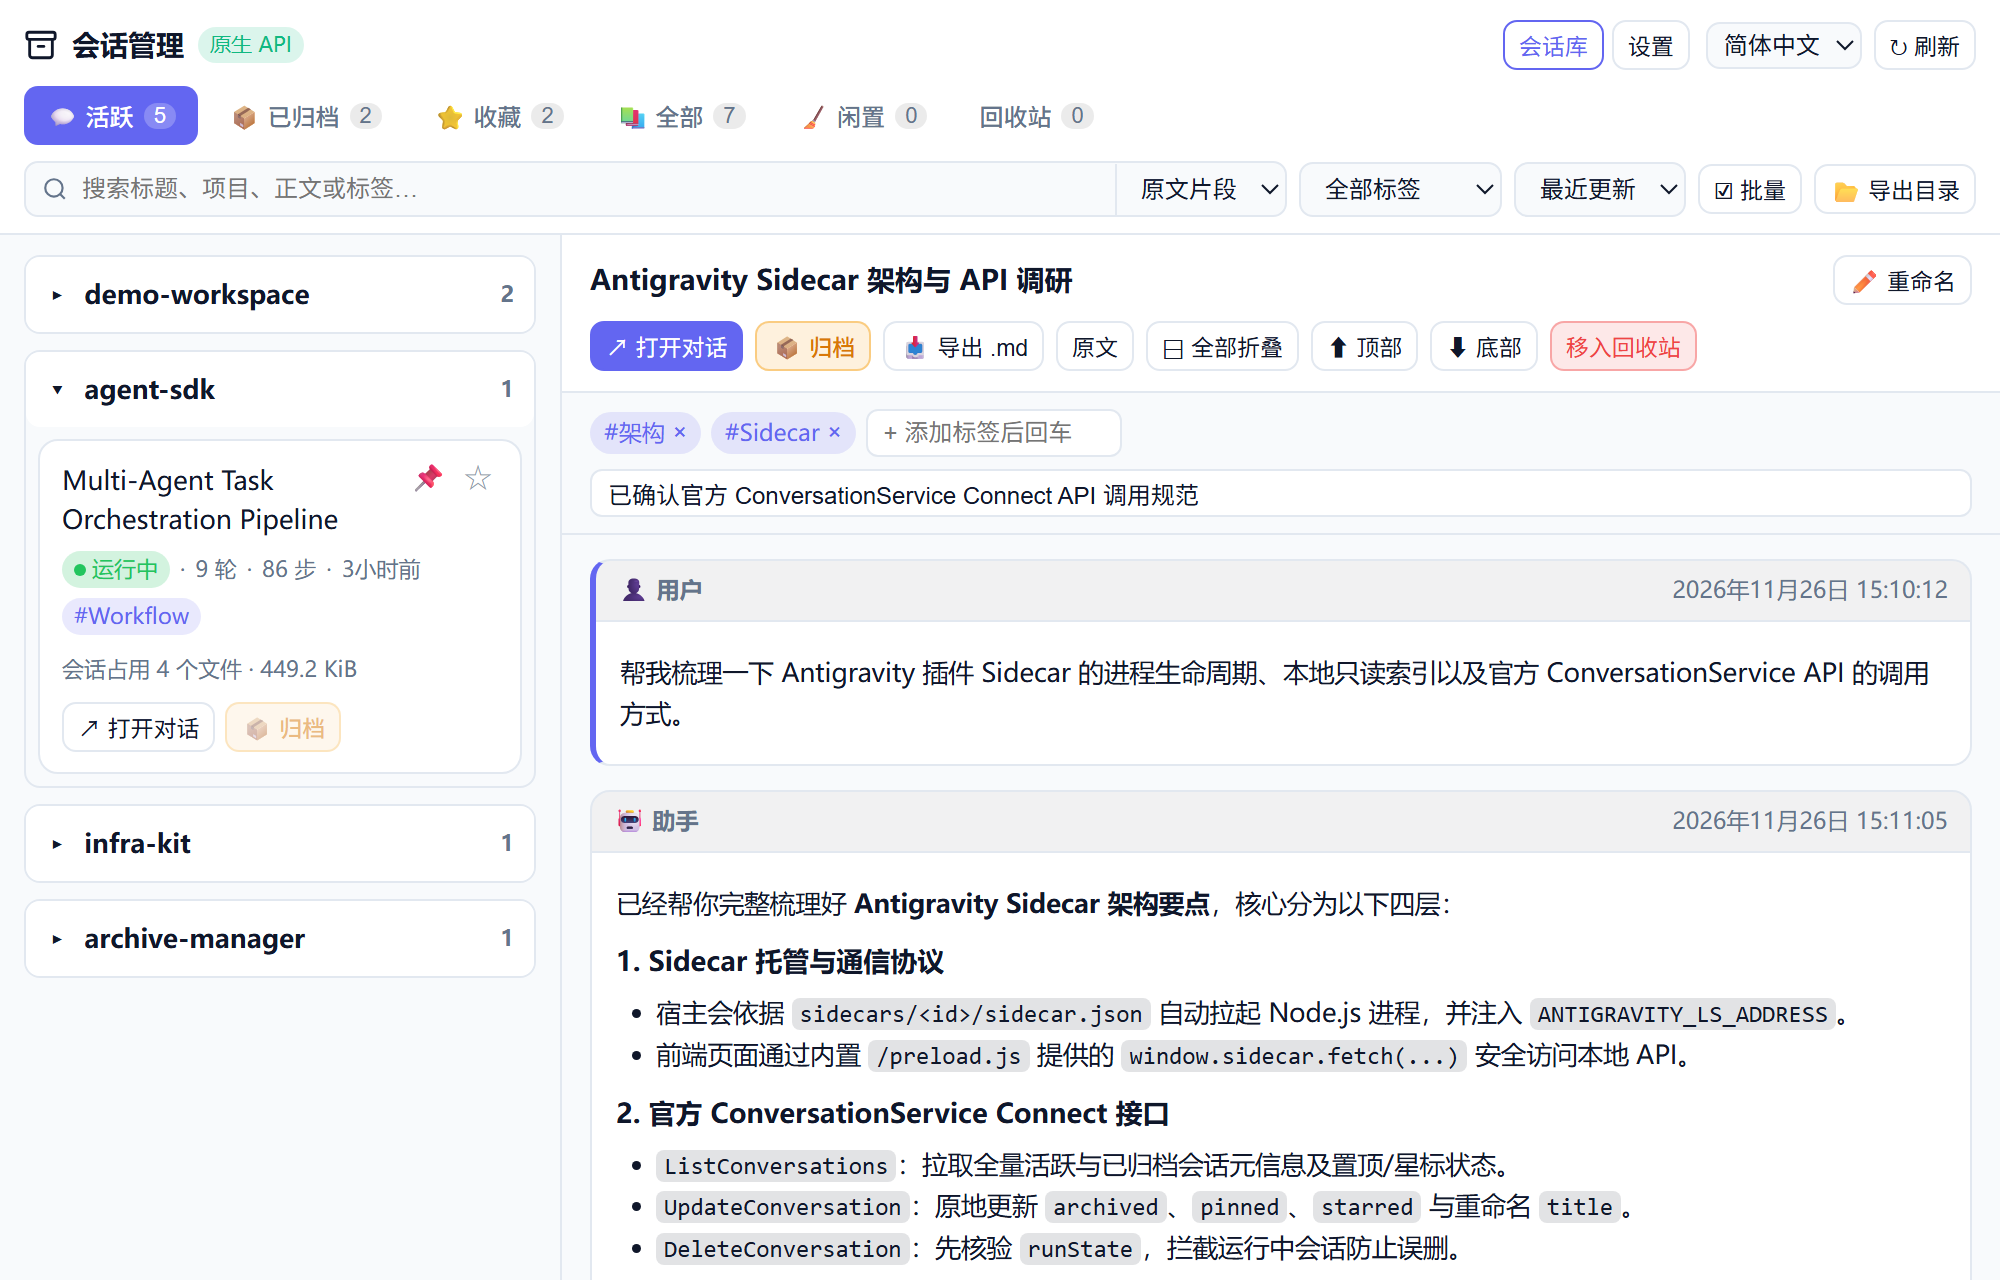
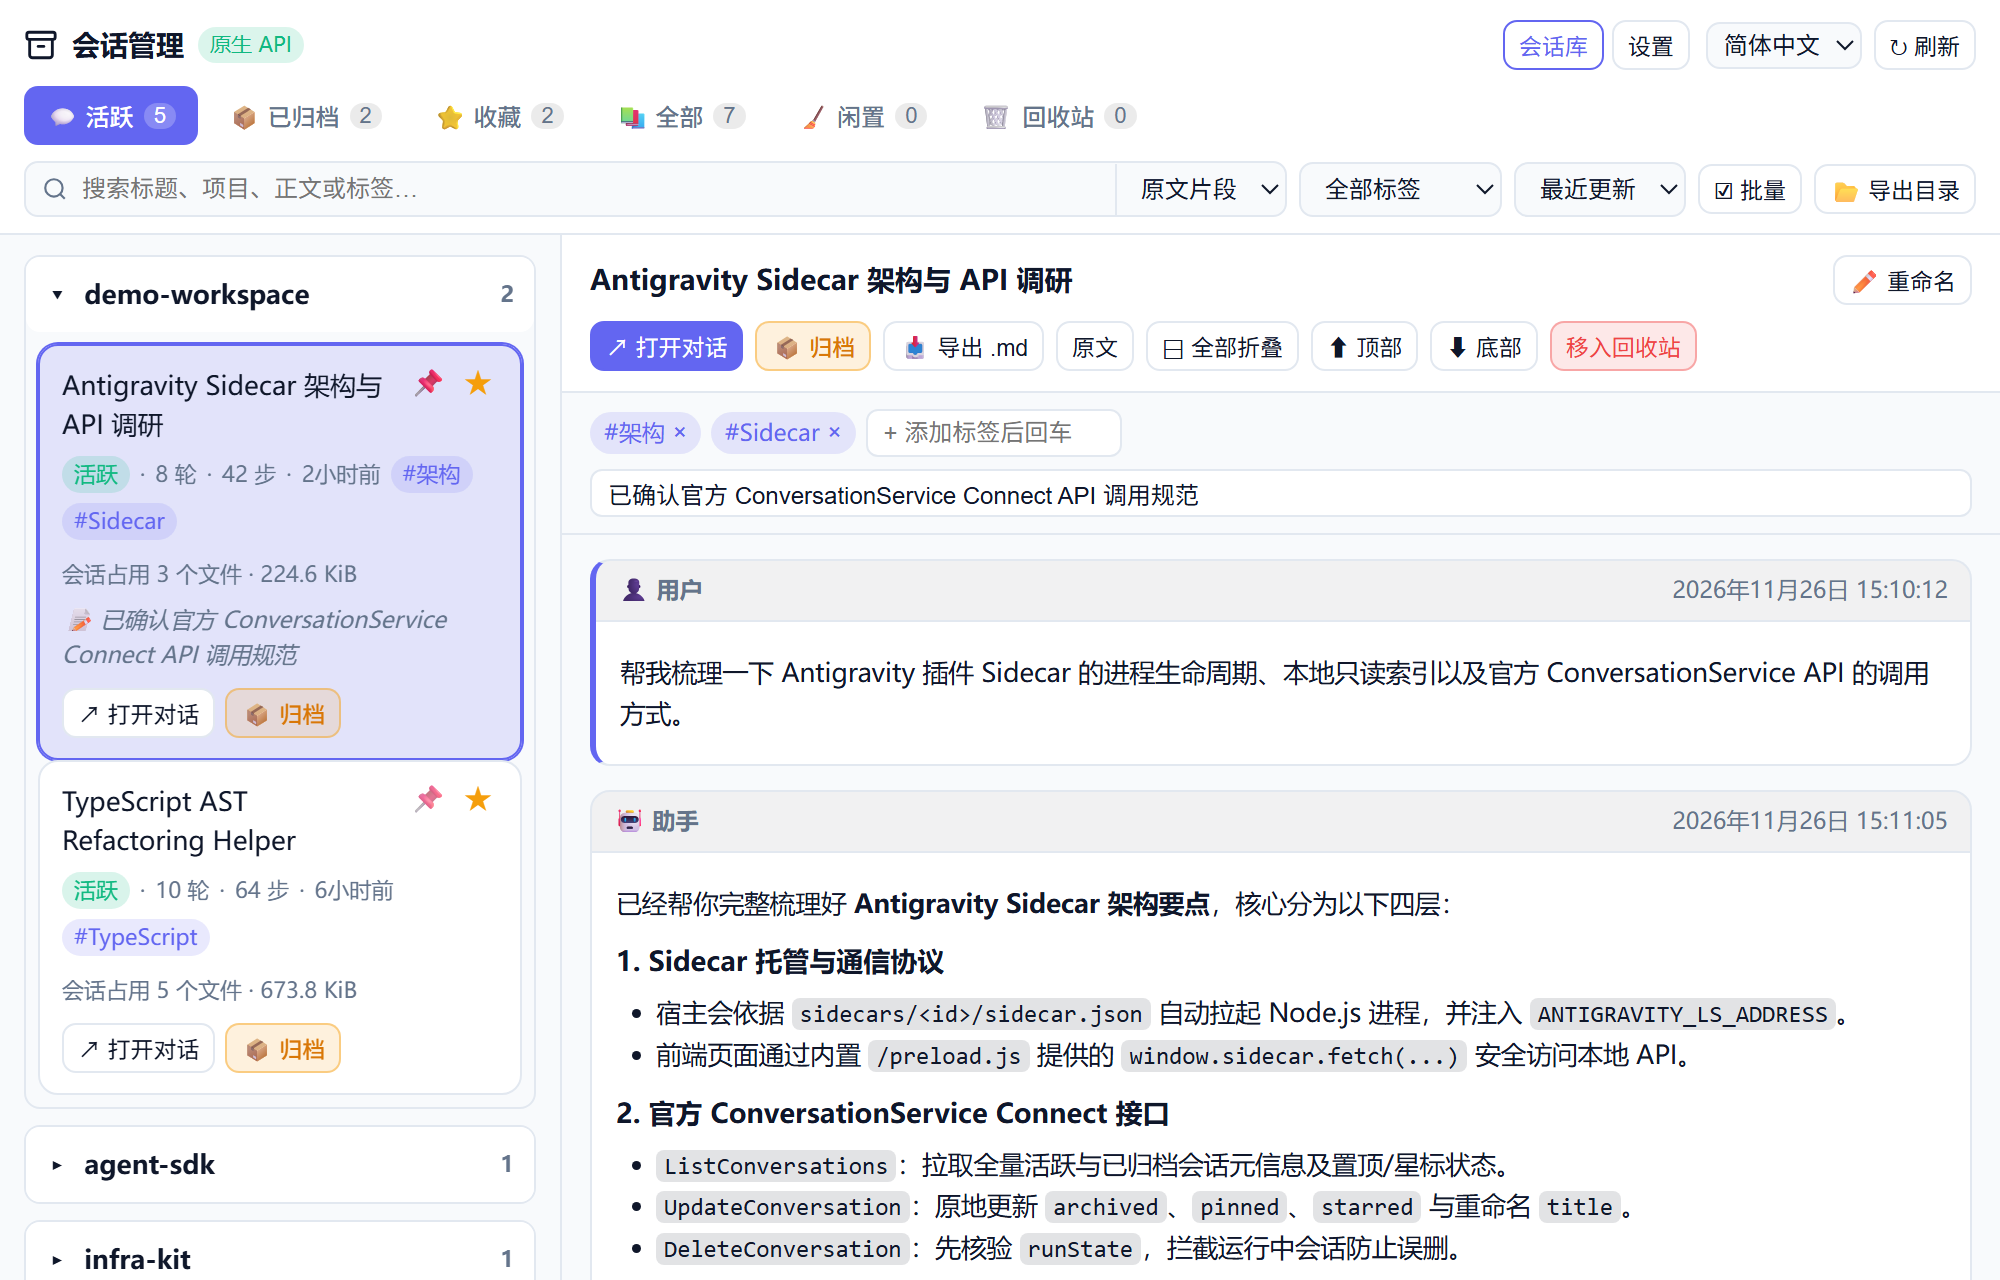
fix: polish v2.4.0 search clear placement, host-reactivated trash convergence, and hero screenshots

diff --git a/sidecars/archive_manager/index.html b/sidecars/archive_manager/index.html
@@ -811,7 +811,7 @@
     .search-box { min-width: 0; gap: 0; border: 1px solid var(--am-border); border-radius: 7px; background: var(--am-bg); }
     .search-box:focus-within { border-color: var(--am-accent); }
     .search-box input { min-width: 0; flex: 1 1 auto; width: auto; padding-right: 3px; border: 0; }
-    .search-box .search-clear { position: static; order: 1; flex-shrink: 0; }
+    .search-box .search-clear { position: static; flex-shrink: 0; margin-inline-end: 2px; }
     .search-box select { flex-shrink: 0; max-width: 49%; border: 0; border-radius: 0; border-inline-start: 1px solid var(--am-border); background-color: transparent; }
     .search-box input:focus-visible, .search-box select:focus-visible, .workspace-toggle:focus-visible {
       outline: 2px solid var(--am-accent); outline-offset: -2px;
@@ -825,11 +825,13 @@
     .workspace-toggle:hover { background: var(--am-tag-bg); }
     .workspace-toggle .workspace-label { flex: 1; overflow-wrap: anywhere; min-width: 0; }
     .workspace-count, .card-storage { color: var(--am-muted); font-size: 11px; }
+    .card-trash-info { margin-top: 3px; color: var(--am-muted); font-size: 11px; line-height: 1.45; }
     .workspace-content { padding: 6px; }
     .workspace-content .conv-card:last-child { margin-bottom: 0; }
     .card-storage { margin-top: 3px; }
     .card-title-button { border: 0; background: transparent; padding: 0; color: inherit; font: inherit; text-align: start; cursor: pointer; }
     #libraryTools { display: flex; flex-direction: column; gap: 8px; }
+    @media (max-width: 560px) { .tab-btn { padding: 4px 7px; gap: 4px; font-size: 11.5px; } }
     @media (max-width: 480px) { .search-box { flex-basis: 100%; } }
   </style>
 </head>
@@ -871,7 +873,7 @@
           <button class="tab-btn" data-tab="starred"><span data-i18n="starredTab">⭐ 收藏</span><span class="tab-count" id="cnt-starred">0</span></button>
           <button class="tab-btn" data-tab="all"><span data-i18n="allTab">📚 全部</span><span class="tab-count" id="cnt-all">0</span></button>
           <button class="tab-btn" data-tab="stale"><span data-i18n="staleTab">🧹 闲置</span><span class="tab-count" id="cnt-stale">0</span></button>
-          <button class="tab-btn" data-tab="trash"><span data-i18n="trashTab">回收站</span><span class="tab-count" id="cnt-trash">0</span></button>
+          <button class="tab-btn" data-tab="trash"><span aria-hidden="true">🗑</span><span data-i18n="trashTab">回收站</span><span class="tab-count" id="cnt-trash">0</span></button>
         </nav>
 
         <div class="filters-bar">
@@ -880,11 +882,11 @@
               <svg width="13" height="13" viewBox="0 0 24 24" fill="none" stroke="currentColor" stroke-width="2"><circle cx="11" cy="11" r="8"/><line x1="21" y1="21" x2="16.65" y2="16.65"/></svg>
             </span>
             <input id="searchInput" type="text" data-i18n-placeholder="searchPlaceholder" data-i18n-label="search" placeholder="全文搜索标题、项目、消息正文或标签..." />
+            <button id="clearSearchBtn" class="search-clear" data-i18n-title="clearSearch" data-i18n-label="clearSearch">×</button>
             <select id="searchModeSelect" class="ctrl-select" data-i18n-label="searchMode" data-i18n-title="searchMode">
               <option value="literal" data-i18n="literal">原文片段</option>
               <option value="keywords" data-i18n="keywords">关键词</option>
             </select>
-            <button id="clearSearchBtn" class="search-clear" data-i18n-title="clearSearch" data-i18n-label="clearSearch">×</button>
           </div>
           <select id="groupSelect" class="ctrl-select" data-i18n-label="filterGroup" data-i18n-title="filterGroup" hidden>
             <option value="" data-i18n="allGroups">全部分组</option>
@@ -1587,7 +1589,11 @@
       $('selectAllBtn').disabled = !canApply || state.items.length === 0;
       $('batchRestoreBtn').disabled = !canApply || count === 0;
       $('batchArchiveBtn').disabled = !canApply || count === 0;
-      $('archiveAllStaleBtn').disabled = !canApply || state.tab !== 'stale' || state.staleIds.length === 0;
+      const staleBtn = $('archiveAllStaleBtn');
+      staleBtn.disabled = !canApply || state.tab !== 'stale' || state.staleIds.length === 0;
+      if (!staleBtn.dataset.pendingAction) {
+        staleBtn.textContent = state.staleIds.length > 0 ? `${t('archiveIdle')} (${number(state.staleIds.length)})` : t('archiveIdle');
+      }
     }
 
     function invalidateList() {
@@ -1887,7 +1893,8 @@
           const next = !groupIsOpen(group.key);
           if (state.query) state.searchOpened.set(group.key, next);
           else {
-            const open = state.openedByTab.get(state.tab);
+            let open = state.openedByTab.get(state.tab);
+            if (!open) { open = new Set(); state.openedByTab.set(state.tab, open); }
             if (next) open.add(group.key);
             else open.delete(group.key);
           }
@@ -1932,7 +1939,7 @@
 
       const stepText = Number.isFinite(item.stepCount) ? `<span>·</span><span>${escapeHtml(t('steps', item.stepCount))}</span>` : '';
       const archiveAction = trash || item.archived ? 'restore' : 'archive';
-      const archiveHelp = item.archived ? 'restoreHelp' : item.isRunning ? 'runningHelp' : 'archiveHelp';
+      const archiveHelp = trash ? 'trashRestore' : item.archived ? 'restoreHelp' : item.isRunning ? 'runningHelp' : 'archiveHelp';
       const pinLabel = escapeHtml(t(item.pinned ? 'unpin' : 'pin'));
       const starLabel = escapeHtml(t(item.starred ? 'unstar' : 'star'));
 
@@ -1956,7 +1963,7 @@
           ${tagsHtml}
         </div>
         <div class="card-storage"></div>
-        ${trash ? `<div class="card-storage">${escapeHtml(formatTrashInfo(item))}</div>` : ''}
+        ${trash ? `<div class="card-trash-info">${escapeHtml(formatTrashInfo(item))}</div>` : ''}
         ${noteHtml}
         ${snippetHtml}
         <div class="card-actions">
@@ -2239,8 +2246,8 @@
       archBtn.disabled = Boolean(!d || pending || (d.isRunning && !d.archived));
       archBtn.textContent = pending ? t('working', t(pending)) : t(trash ? 'trashRestore' : `${action}Button`);
       archBtn.title = t(trash ? 'trashRestore' : d?.isRunning && !d.archived ? 'runningHelp' : `${action}Help`);
-      archBtn.classList.toggle('btn-restore', Boolean(d?.archived));
-      archBtn.classList.toggle('btn-archive', !d?.archived);
+      archBtn.classList.toggle('btn-restore', Boolean(trash || d?.archived));
+      archBtn.classList.toggle('btn-archive', !trash && !d?.archived);
     }
 
     function updatePreviewHeaderState() {
@@ -2805,7 +2812,7 @@
     // Initial load & auto-refresh on focus
     initializePanel();
     window.addEventListener('focus', () => {
-      if (!$('languageSelect').disabled) loadList({ refresh: true });
+      if (!$('languageSelect').disabled && state.surface === 'library') loadList({ refresh: true });
     });
   </script>
 </body>
